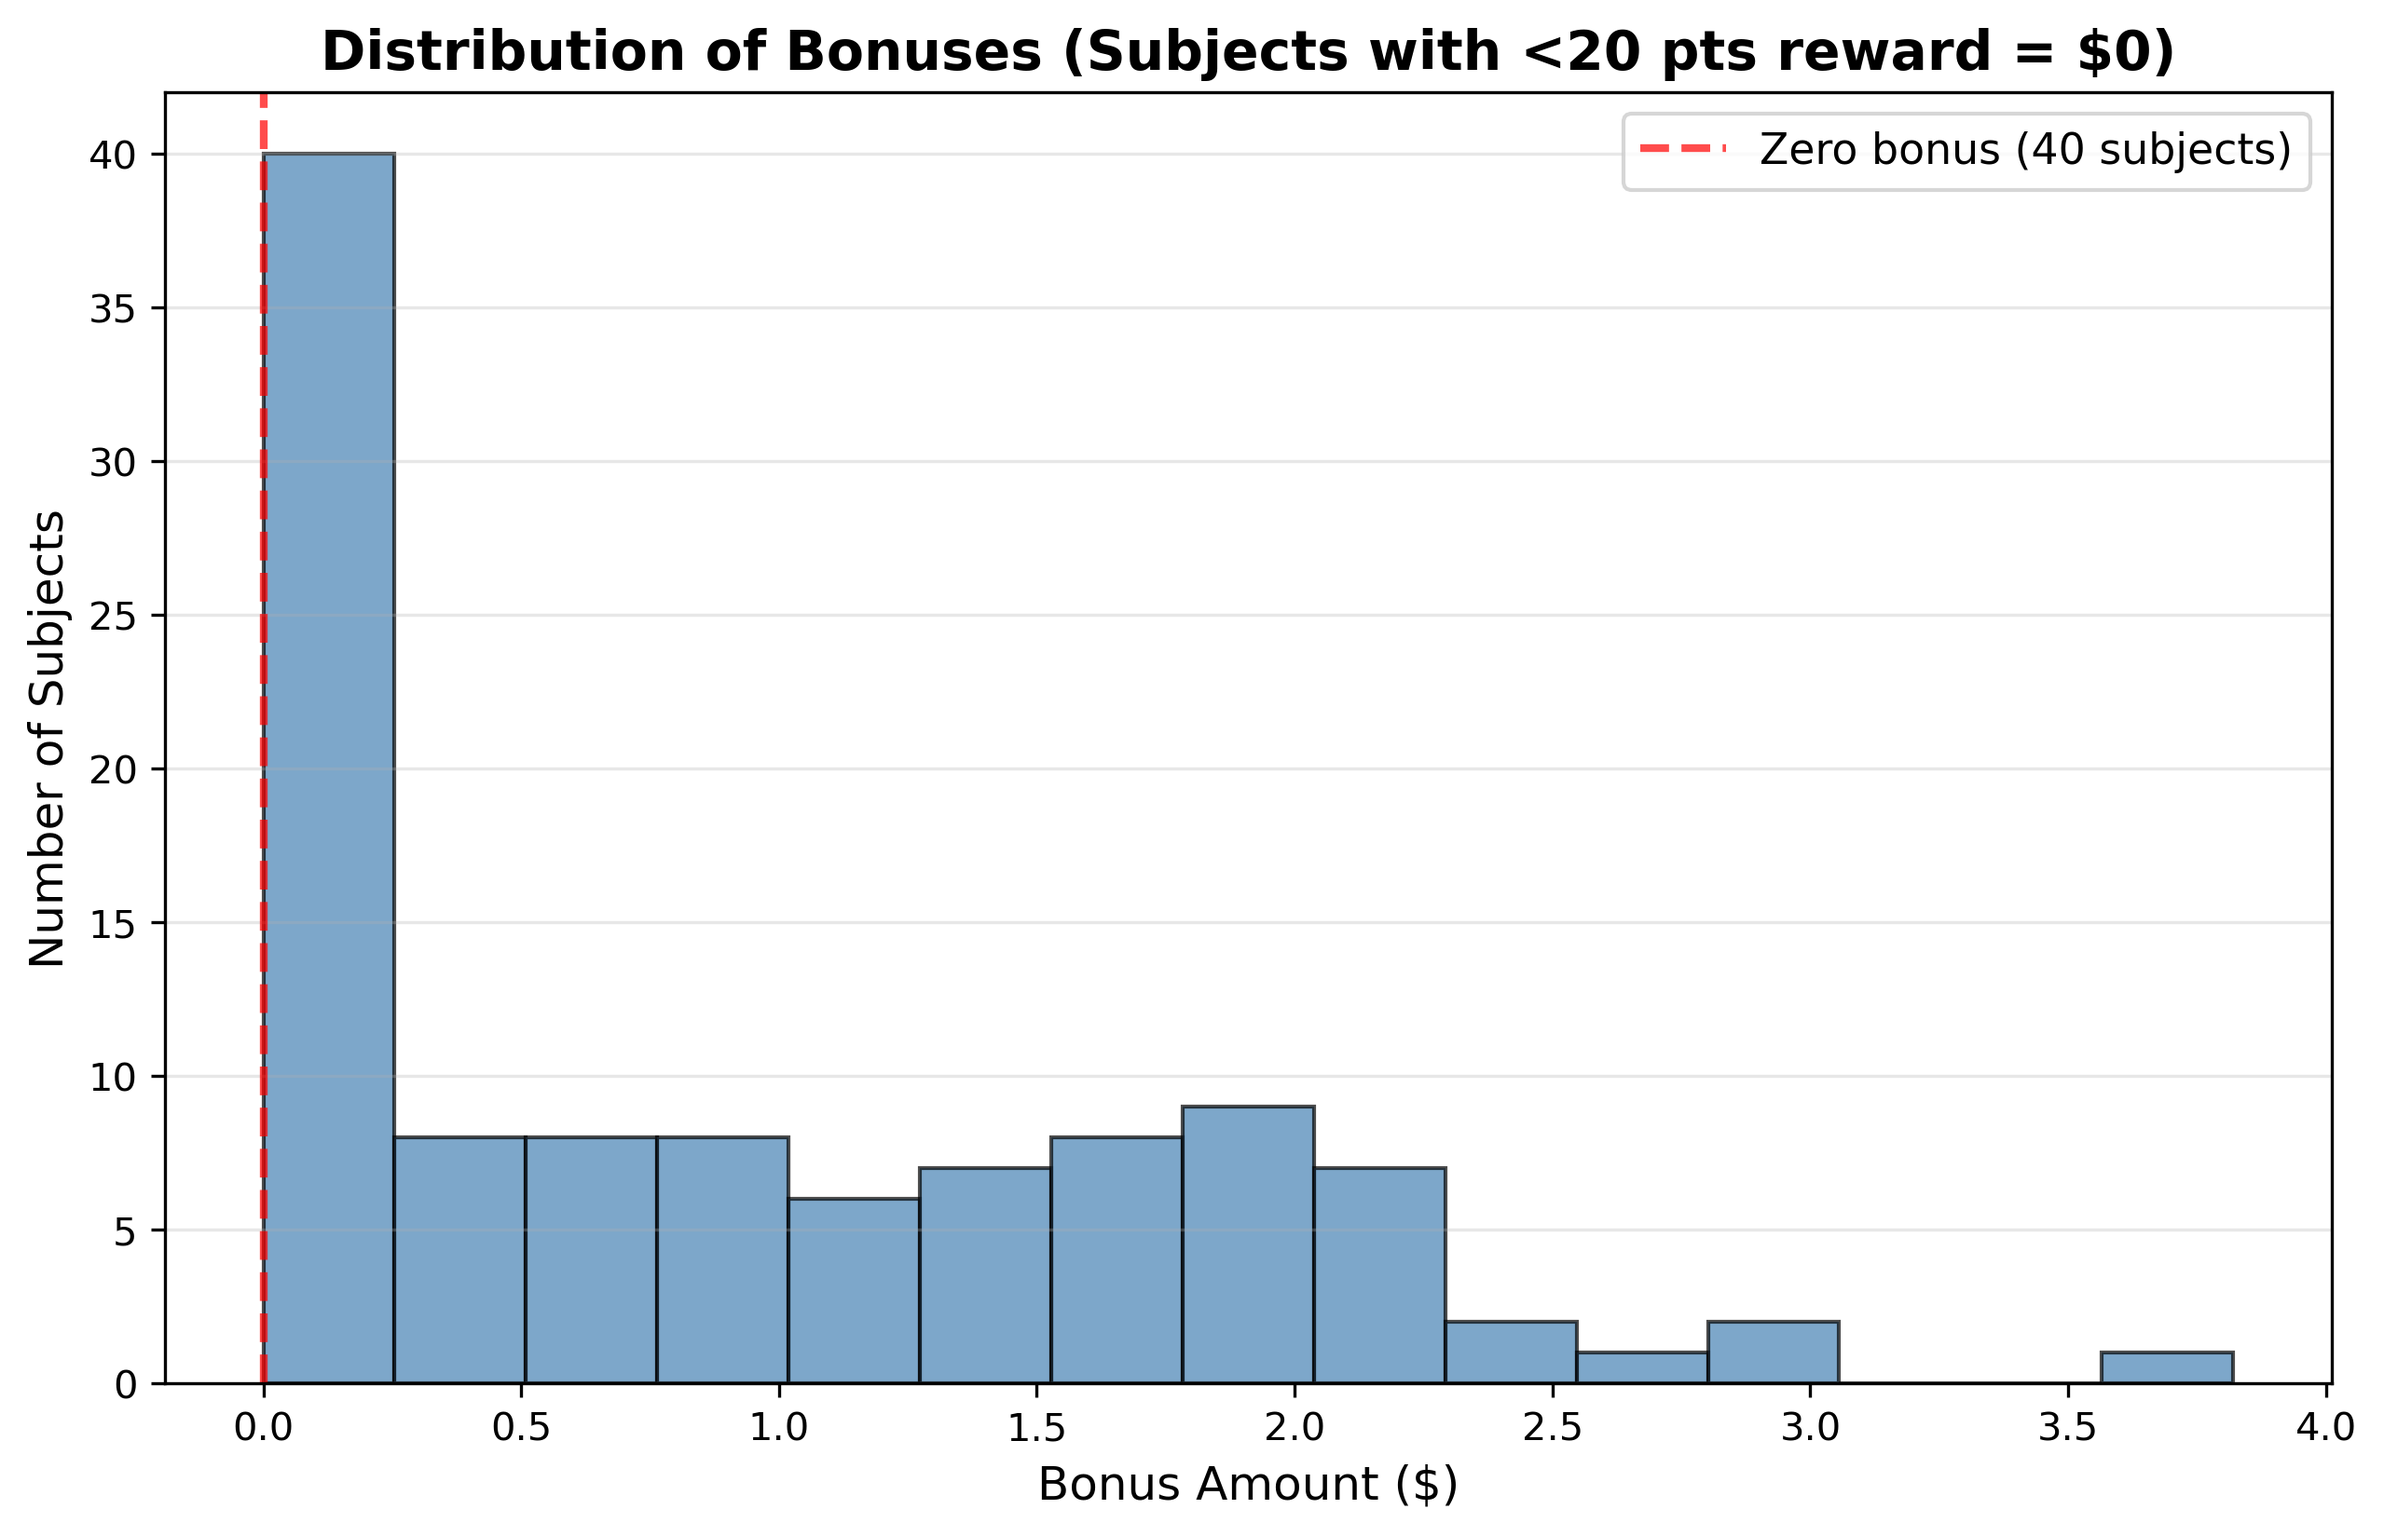
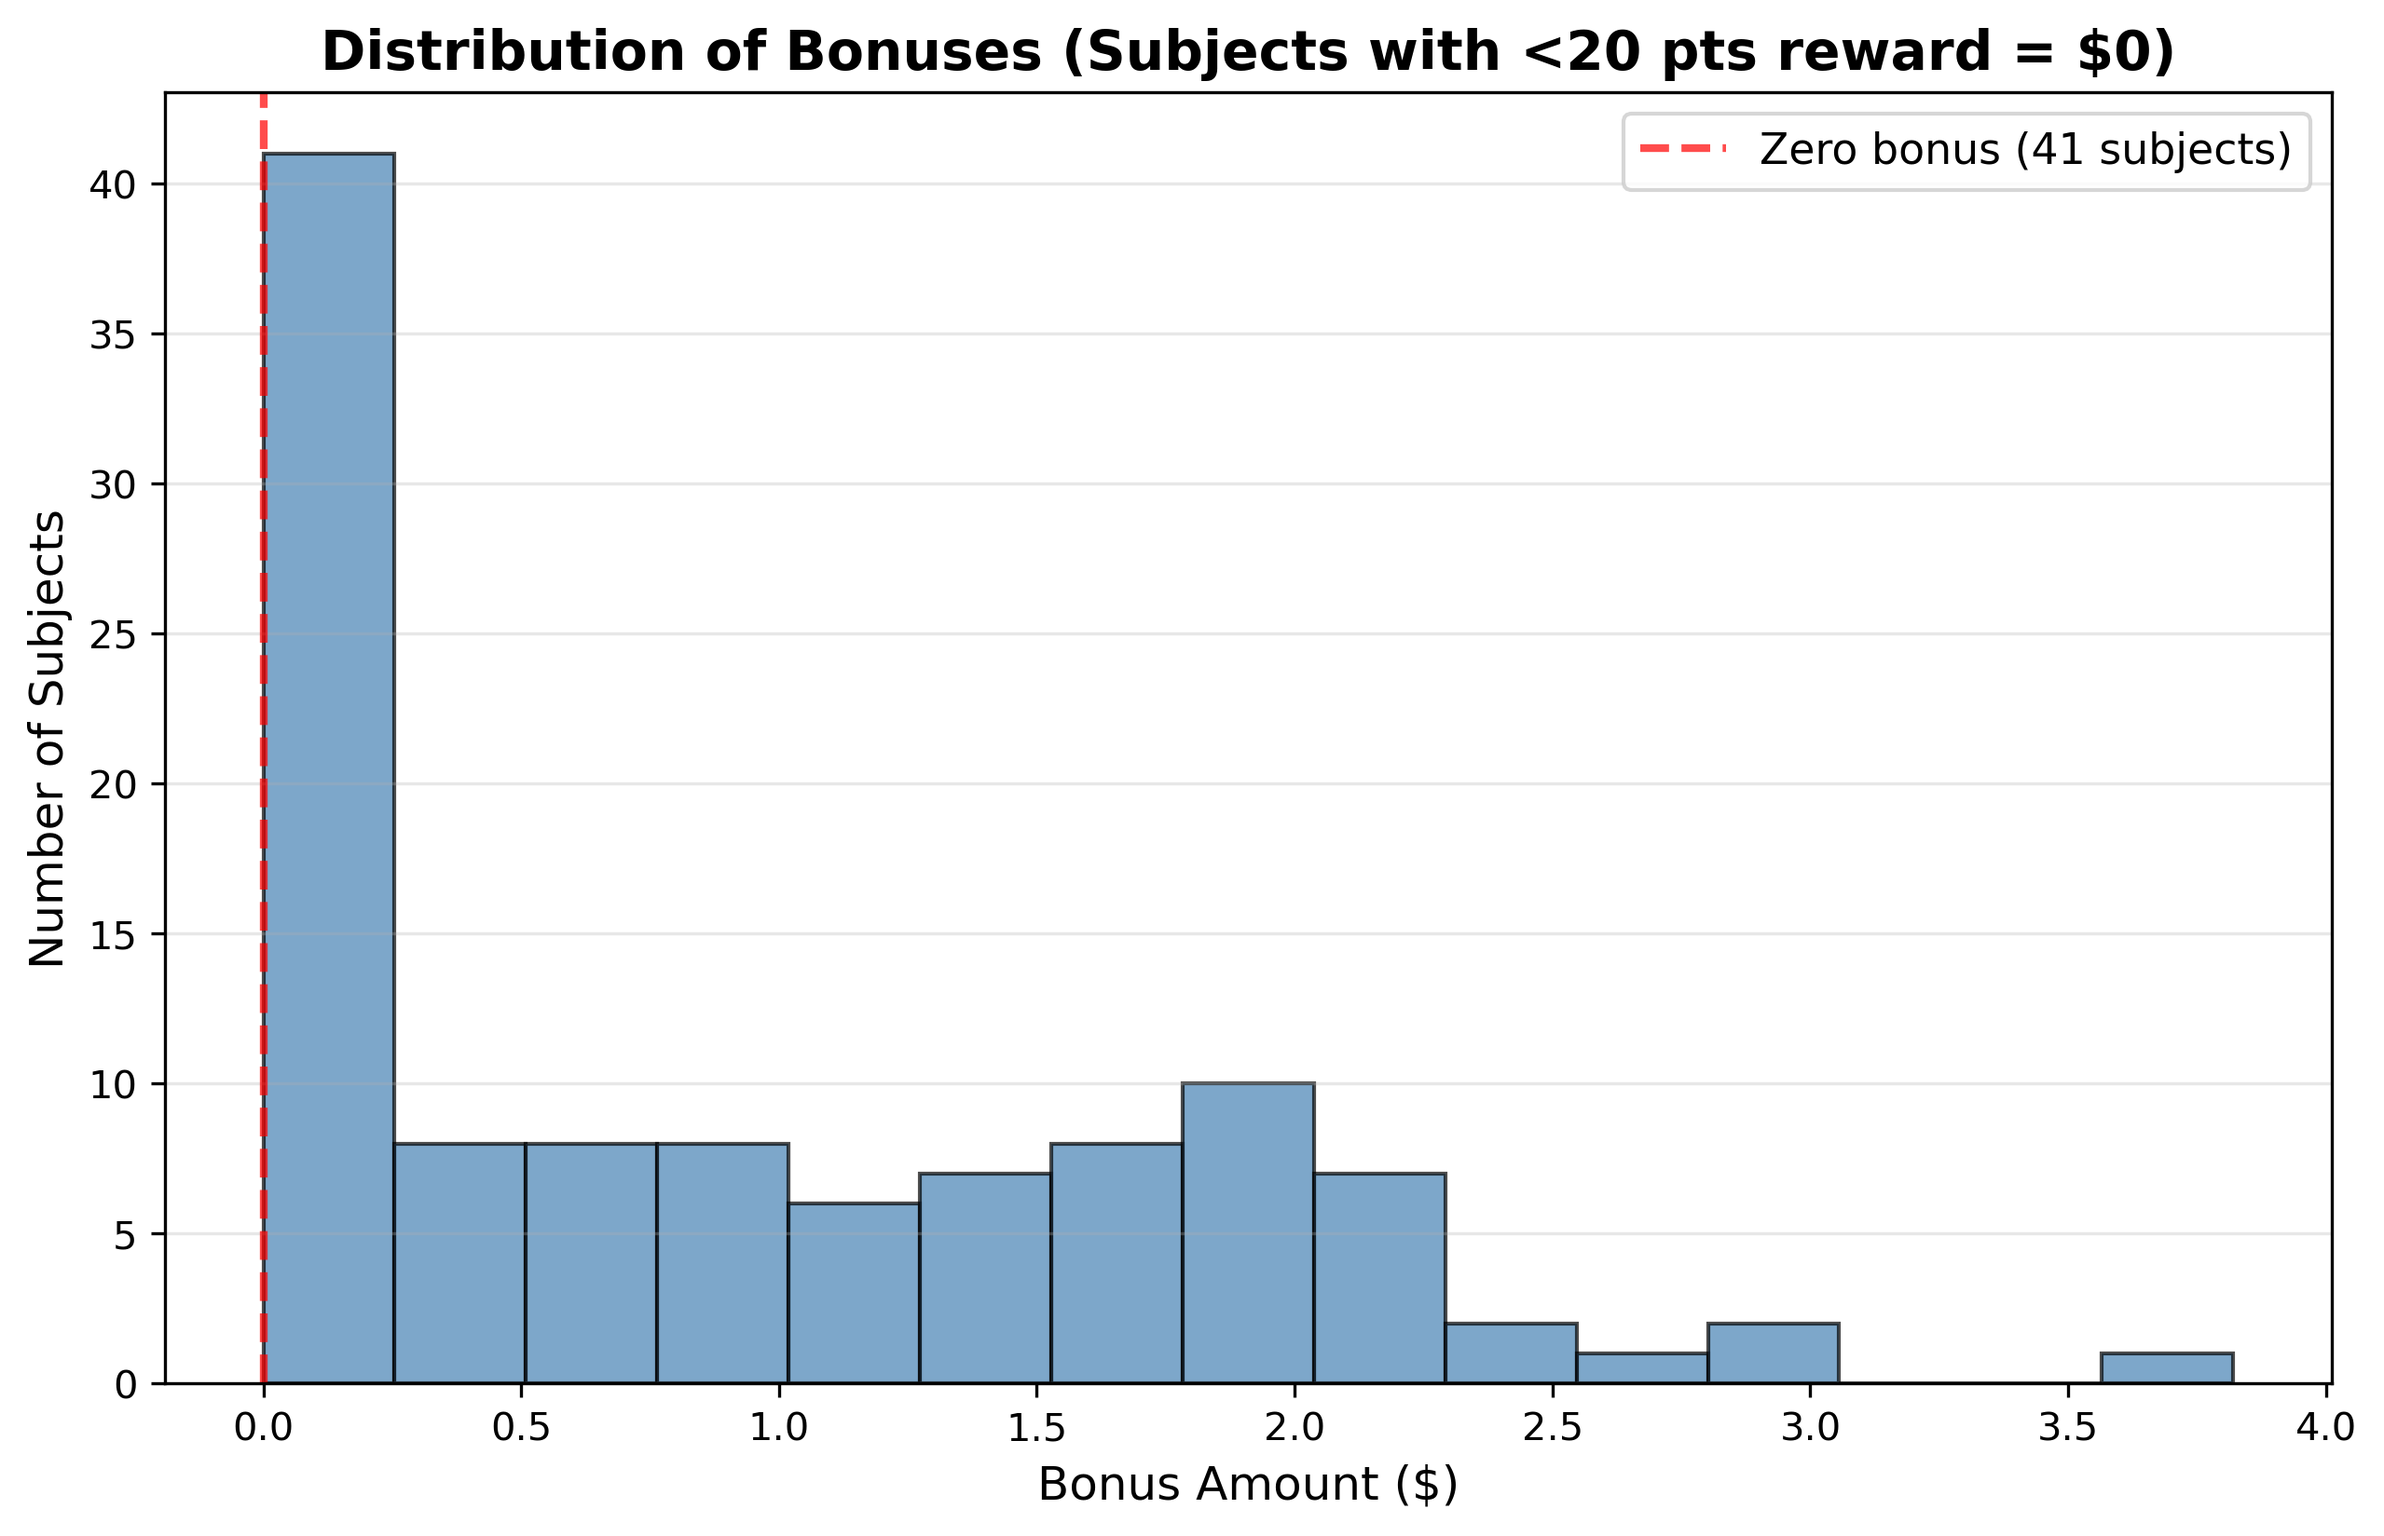
data analysis for calculating bonuses (now only excludes if you didnt get to episode 19, not if you dont have a completion code)

diff --git a/data_preprocessing/completeness_check.py b/data_preprocessing/completeness_check.py
@@ -3,7 +3,7 @@ from pathlib import Path
 from collections import defaultdict
 
 #data_dir = r"G:\.shortcut-targets-by-id\1n7peZVybcw0B7smQ0VFfiXWcIbYjxZ96\2025ControllableCollaborationChaseGrace\Experiments\2025-ControllableCollaboration-Human Speed\Data\Pilot2\data"
-data_dir = r"G:\.shortcut-targets-by-id\1n7peZVybcw0B7smQ0VFfiXWcIbYjxZ96\2025ControllableCollaborationChaseGrace\Experiments\2025-ControllableCollaboration-Human Speed\Data\FullRun1+2+3\data\end_completion_code_scene"
+data_dir = r"G:\.shortcut-targets-by-id\1n7peZVybcw0B7smQ0VFfiXWcIbYjxZ96\2025ControllableCollaborationChaseGrace\Experiments\2025-ControllableCollaboration-Human Speed\Data\FullRun1+2+3\data"
 
 def analyze_data_completeness():
     """
@@ -30,6 +30,7 @@ def analyze_data_completeness():
     
     # Extract IDs from end_completion_code_scene (from metadata files or CSV if present)
     end_scene_ids = set()
+    end_scene_files_found = []
     if end_scene_dir.exists():
         # First try to find CSV files
         csv_files = list(end_scene_dir.glob("*.csv"))
@@ -38,12 +39,14 @@ def analyze_data_completeness():
                 filename = csv_file.stem
                 id_part = filename.split("_")[0]
                 end_scene_ids.add(id_part)
+                end_scene_files_found.append(filename)
         else:
             # If no CSV files, extract from metadata files
             for meta_file in end_scene_dir.glob("*_metadata.json"):
                 filename = meta_file.stem.replace("_metadata", "")
                 id_part = filename.split("_")[0]
                 end_scene_ids.add(id_part)
+                end_scene_files_found.append(filename)
     
     # (1) IDs in sp_0 but NOT in end_scene
     missing_from_end_scene = sorted(list(sp_0_ids - end_scene_ids))
@@ -62,11 +65,120 @@ def analyze_data_completeness():
         "missing_from_end_scene": missing_from_end_scene,
         "missing_episode_19": missing_episode_19,
         "total_ids_in_sp_0": len(sp_0_ids),
-        "ids_in_end_scene": len(end_scene_ids)
+        "ids_in_end_scene": len(end_scene_ids),
+        "end_scene_files_found": end_scene_files_found,
+        "all_end_scene_ids": sorted(list(end_scene_ids))
     }
 
 
+def check_specific_ids_in_end_scene():
+    """
+    Simple function to list all files in end_completion_code_scene,
+    extract IDs, and check if the four specific IDs are present.
+    """
+    end_scene_dir = Path(data_dir) / "end_completion_code_scene"
+    specific_ids = ["ADZK6MRVYIR5D", "A1UP5HLWPM1LAC", "A2WPFFUE15XC92", "A36DK2OP86BTSO"]
+    
+    print("\n" + "=" * 70)
+    print("DIRECT CHECK: ALL FILES IN end_completion_code_scene")
+    print("=" * 70)
+    
+    all_files = list(end_scene_dir.glob("*"))
+    print(f"\nTotal files/folders in directory: {len(all_files)}")
+    print("\nFile listing (first 30):")
+    for i, file_path in enumerate(sorted(all_files)[:30]):
+        print(f"  {file_path.name}")
+    
+    if len(all_files) > 30:
+        print(f"  ... and {len(all_files) - 30} more files")
+    
+    # Extract IDs from all files
+    ids_found = set()
+    print("\n" + "-" * 70)
+    print("Extracting IDs from filenames:")
+    print("-" * 70)
+    
+    for file_path in sorted(all_files):
+        filename = file_path.name
+        # Try to extract ID (everything before first underscore)
+        id_part = filename.split("_")[0]
+        ids_found.add(id_part)
+    
+    print(f"Unique IDs extracted: {len(ids_found)}")
+    print(f"Sample IDs: {sorted(list(ids_found))[:10]}")
+    
+    # Check for specific IDs
+    print("\n" + "-" * 70)
+    print("Checking for specific IDs:")
+    print("-" * 70)
+    
+    for id_str in specific_ids:
+        is_present = id_str in ids_found
+        status = "✓ FOUND" if is_present else "✗ NOT FOUND"
+        print(f"  {id_str}: {status}")
+    
+    print("\n" + "=" * 70)
+
+
+def check_episode_19_completion():
+    """
+    Check if specific IDs have episode 19 data in cramped_room_sp_0 directory.
+    """
+    sp_0_dir = Path(data_dir) / "cramped_room_sp_0"
+    specific_ids = ["ADZK6MRVYIR5D", "A1UP5HLWPM1LAC", "A2WPFFUE15XC92", "A36DK2OP86BTSO"]
+    
+    print("\n" + "=" * 70)
+    print("EPISODE 19 COMPLETION CHECK: cramped_room_sp_0")
+    print("=" * 70)
+    
+    # Get all CSV files for each specific ID
+    for id_str in specific_ids:
+        print(f"\nID: {id_str}")
+        print("-" * 70)
+        
+        # Find all files matching this ID
+        matching_files = list(sp_0_dir.glob(f"{id_str}*.csv"))
+        
+        if not matching_files:
+            print("  ✗ NO FILES FOUND")
+        else:
+            print(f"  Files found: {len(matching_files)}")
+            
+            # Extract episode numbers
+            episodes = []
+            for file_path in sorted(matching_files):
+                filename = file_path.stem  # Remove .csv
+                # Extract episode number (everything after the first underscore)
+                parts = filename.split("_")
+                if len(parts) == 1:
+                    # No episode number = episode 0
+                    episodes.append(0)
+                    print(f"    {file_path.name} → Episode 0")
+                else:
+                    try:
+                        ep_num = int(parts[-1])
+                        episodes.append(ep_num)
+                        print(f"    {file_path.name} → Episode {ep_num}")
+                    except ValueError:
+                        print(f"    {file_path.name} → (could not parse episode number)")
+            
+            # Check if episode 19 exists
+            has_ep_19 = 19 in episodes
+            status = "✓ YES" if has_ep_19 else "✗ NO"
+            print(f"\n  Has Episode 19: {status}")
+            print(f"  Episodes present: {sorted(set(episodes))}")
+    
+    print("\n" + "=" * 70)
+
+
 if __name__ == "__main__":
+    # Run the direct check first
+    check_specific_ids_in_end_scene()
+    
+    # Check episode 19 completion
+    check_episode_19_completion()
+    
+    # Then run the full analysis
     results = analyze_data_completeness()
     
     print("=" * 60)
@@ -92,5 +204,39 @@ if __name__ == "__main__":
             print(f"  - {id_str}")
     else:
         print("  (None - all IDs have episode 19)")
+    
+    print("\n" + "=" * 60)
+    
+    # Debug: Show all IDs found in end_completion_code_scene
+    print("\nDEBUG: All IDs found in end_completion_code_scene:")
+    print("-" * 60)
+    if results['end_scene_files_found']:
+        print(f"Files found: {len(results['end_scene_files_found'])}")
+        for file in sorted(results['end_scene_files_found'])[:20]:  # Show first 20
+            print(f"  {file}")
+        if len(results['end_scene_files_found']) > 20:
+            print(f"  ... and {len(results['end_scene_files_found']) - 20} more")
+    else:
+        print("  (No files found in end_completion_code_scene)")
+    
+    print(f"\nUnique IDs extracted: {results['ids_in_end_scene']}")
+    print(f"Sample IDs: {results['all_end_scene_ids'][:10]}")
+    
+    print("\n" + "=" * 60)
+    
+    # Check specific IDs
+    specific_ids = ["ADZK6MRVYIR5D", "A1UP5HLWPM1LAC", "A2WPFFUE15XC92", "A36DK2OP86BTSO"]
+    print("SPECIFIC ID CHECK")
+    print("=" * 60)
+    
+    for id_str in specific_ids:
+        missing_end_scene = id_str in results['missing_from_end_scene']
+        missing_ep_19 = id_str in results['missing_episode_19']
+        in_end_scene = id_str in results['all_end_scene_ids']
+        
+        print(f"\nID: {id_str}")
+        print(f"  In end_completion_code_scene: {in_end_scene}")
+        print(f"  Missing from end_completion_code_scene: {missing_end_scene}")
+        print(f"  Missing episode 19: {missing_ep_19}")
     
     print("\n" + "=" * 60)

diff --git a/data_preprocessing/data_aggregation.py b/data_preprocessing/data_aggregation.py
@@ -38,14 +38,6 @@ def aggregate_subject_data():
     # Create aggregated data directory if it doesn't exist
     agg_dir.mkdir(parents=True, exist_ok=True)
     
-    # Extract IDs from end_completion_code_scene (subjects with completion codes)
-    completed_subject_ids = set()
-    if end_scene_dir.exists():
-        for meta_file in end_scene_dir.glob("*_metadata.json"):
-            filename = meta_file.stem.replace("_metadata", "")
-            id_part = filename.split("_")[0]
-            completed_subject_ids.add(id_part)
-    
     # Dictionary to store CSV files grouped by subject ID
     subject_files = defaultdict(list)
     
@@ -56,10 +48,6 @@ def aggregate_subject_data():
         # Extract subject ID and episode number
         parts = filename.split("_")
         subject_id = parts[0]
-        
-        # Skip subjects without completion codes
-        if subject_id not in completed_subject_ids:
-            continue
         
         # Determine episode number
         if len(parts) == 1:
@@ -74,6 +62,10 @@ def aggregate_subject_data():
                 continue
         
         subject_files[subject_id].append((episode_num, csv_file))
+    
+    # Filter to only keep subjects with episode 19 (indicating completion of all 20 episodes)
+    subject_files = {subject_id: files for subject_id, files in subject_files.items() 
+                     if any(episode_num == 19 for episode_num, _ in files)}
     
     # Create a dataframe for each subject
     subject_dataframes = {}

diff --git a/data_preprocessing/calculate_bonuses.py b/data_preprocessing/calculate_bonuses.py
@@ -6,18 +6,18 @@ import matplotlib.pyplot as plt
 agg_data_dir = r"C:\Users\groessli\Documents\GitHub\interactive-gym-chase\data_preprocessing\aggregated_data\main_exp"
 data_dir = r"G:\.shortcut-targets-by-id\1n7peZVybcw0B7smQ0VFfiXWcIbYjxZ96\2025ControllableCollaborationChaseGrace\Experiments\2025-ControllableCollaboration-Human Speed\Data\FullRun1+2+3\data"
 fig_dir = r"C:\Users\groessli\Documents\GitHub\interactive-gym-chase\data_preprocessing\generated_figs"
-# Get subject IDs from end_completion_code_scene folder
-scene_dir = Path(data_dir) / "end_completion_code_scene"
+# Get subject IDs from aggregated data folder
+agg_dir = Path(agg_data_dir)
 subject_ids = []
 
-if scene_dir.exists():
-    for file_path in scene_dir.glob("*_metadata.json"):
-        # Extract subject ID by removing "_metadata"
-        subject_id = file_path.stem.replace("_metadata", "")
+if agg_dir.exists():
+    for file_path in agg_dir.glob("*_aggregated.csv"):
+        # Extract subject ID by removing "_aggregated.csv"
+        subject_id = file_path.stem.replace("_aggregated", "")
         subject_ids.append(subject_id)
     subject_ids.sort()
 else:
-    print(f"Warning: Scene directory not found: {scene_dir}")
+    print(f"Warning: Aggregated data directory not found: {agg_dir}")
 
 print("=" * 100)
 print("AGENT 0 DELIVERY REWARDS BY SUBJECT AND EPISODE")
